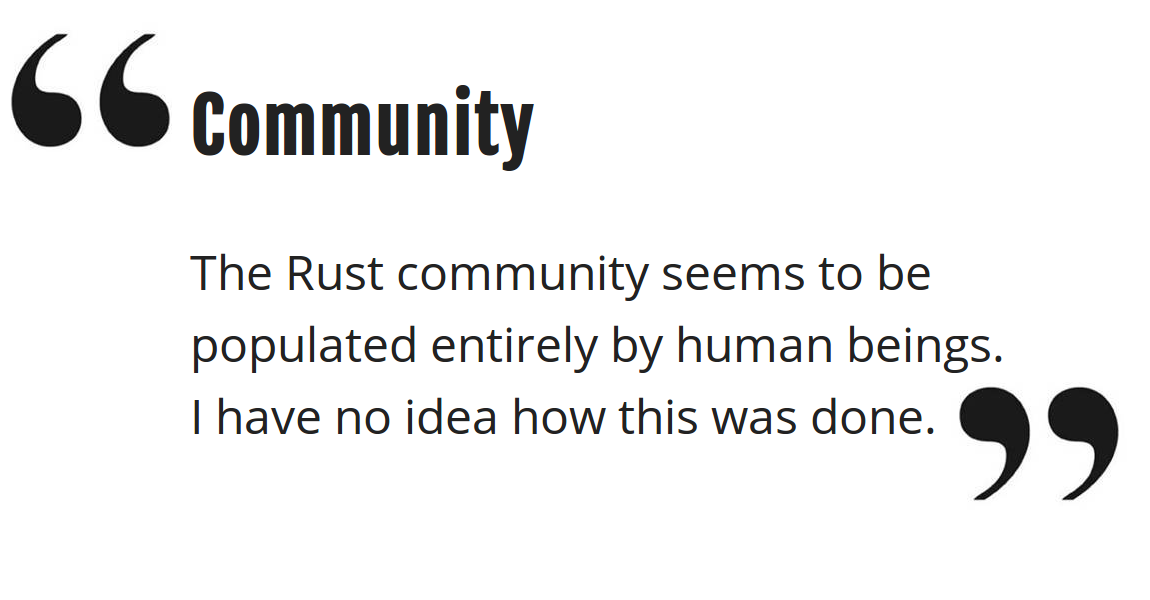
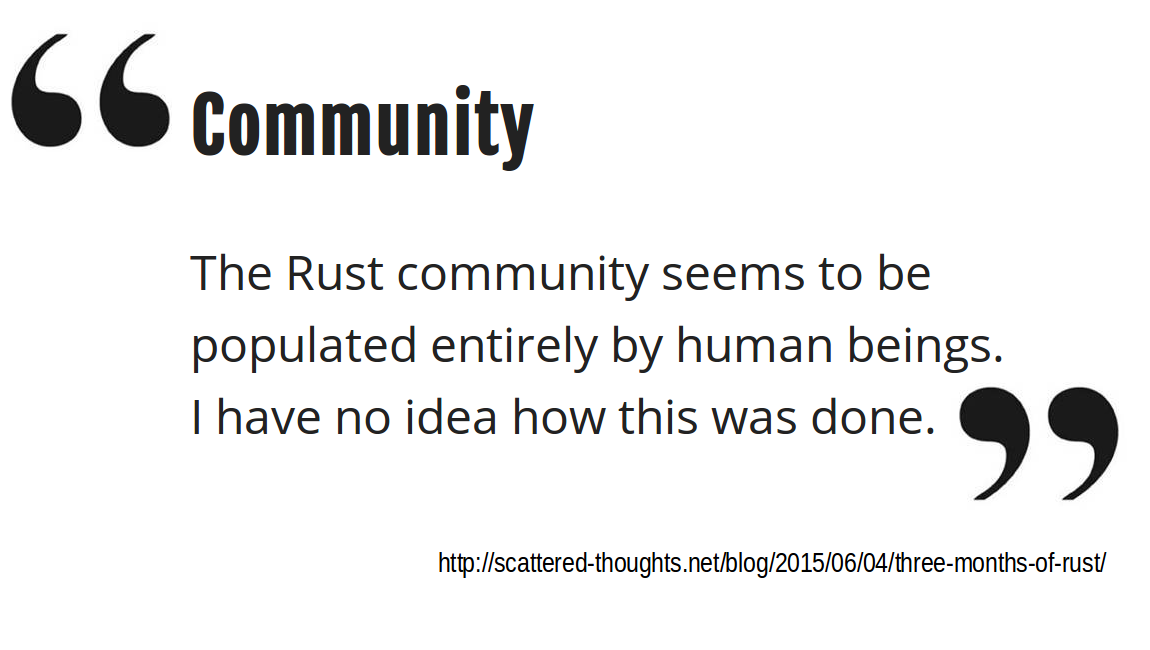
more words + image fixups

diff --git a/rustcommunity/index.rst b/rustcommunity/index.rst
@@ -13,6 +13,7 @@ talks.edunham.net/lca2016
 =========================
 
 lca2016@edunham.net
+
 @qedunham
 
 .. slide::
@@ -46,18 +47,14 @@ lca2016@edunham.net
 
 .. slide:: 
 
-    "Fortunately, perhaps the most impressive aspect of Rust is the welcoming
-    community that supports it. This community could become Rust’s not-so-secret
-    weapon."
+    .. figure:: /hieroglyph-static/not-so-secret.png
+        :class: fill
 
-    - http://www.infoworld.com/article/2947214/open-source-tools/two-reasons-the-rust-language-will-succeed.html
 
 .. slide::
 
     .. figure:: /hieroglyph-static/humans-quote.png
-        :align: center
-
-    http://scattered-thoughts.net/blog/2015/06/04/three-months-of-rust/
+        :class: fill
 
 
 .. slide:: 
@@ -181,7 +178,7 @@ lca2016@edunham.net
 
 .. slide::
 
-    .. figure: /hieroglyph-static/agreement.png
+    .. figure:: /hieroglyph-static/agreement.png
         :class: fill
  
     .. note::
@@ -309,7 +306,8 @@ RFC process
         communicate endorsement or lack thereof to the community. 
 
         And as you may have noticed, we have a *lot* of comunity
-        buzz/hype/popularity at the moment. This means a lot of newbies. 
+        buzz/hype/popularity at the moment. This means a lot of newbies. More
+        on  that later.
 
 .. slide:: 
 
@@ -398,6 +396,7 @@ https://github.com/barosl/homu
     * Keeps state
     * Runs when triggered by GitHub hooks
     * Supports `rollup` and `try`
+    * Account is named Bors
 
 .. note:: 
 
@@ -417,23 +416,23 @@ Solved Problems
     Next problem... things are awesome and we're building a cool product and
     now EVERYBODY wants to get involved!
 
-Too Many Contributors?!
-=======================
+.. slide::
 
-.. figure:: hieroglyph-static/crowd-of-newbies.png
-    :class: scale
+    .. figure:: hieroglyph-static/crowd-of-newbies.png
+        :class: fill
 
-.. note:: 
+    .. note:: 
 
-    Ok, there's really no such thing. But in other communities, I've seen core
-    contributors become more and more grumpy the more times they have to say
-    the same thing over and over again to a stream of newcomers. 
+        Ok, there's really no such thing as too many contributors. 
+        
+        But in other communities, I've seen core
+        contributors become more and more grumpy the more times they have to say
+        the same thing over and over again to a stream of newcomers. 
 
-    I've even experienced it myself, and realized it's called burnout. 
+        I've even experienced it myself, and realized it's called burnout. 
 
-    But the Rust community has some automation to reduce the overhead that
-    these new contributors place on core team folks. 
-
+        But the Rust community has some automation to reduce the overhead that
+        these new contributors place on core team folks. 
 
 Highfive
 ========
@@ -482,11 +481,23 @@ Highfive Configuration
 Starters
 ========
 
+.. note:: 
 
+    Problem: Newbies are lost and confused. They want to get involved but
+    don't necessarily know how to start. 
 
 Crater
 ======
 
+.. note:: 
+
+    Here's a place where the Not Rocket Science Rule kind of went viral. It's
+    all very well to make the code pass all its tests, but there's another
+    definition of "broken" as well: A new stable release that regresses
+    someone's code that worked on the old stable release. 
+
+    brson is a wizard and y'all should ping him and ask him to come give a
+    talk on it. 
 
 Summary
 =======
